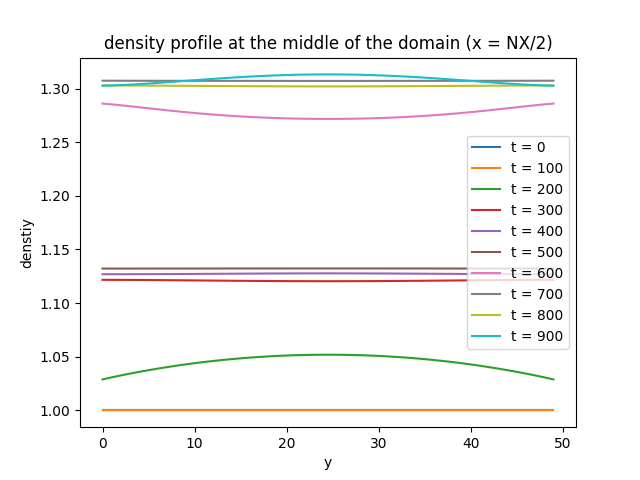
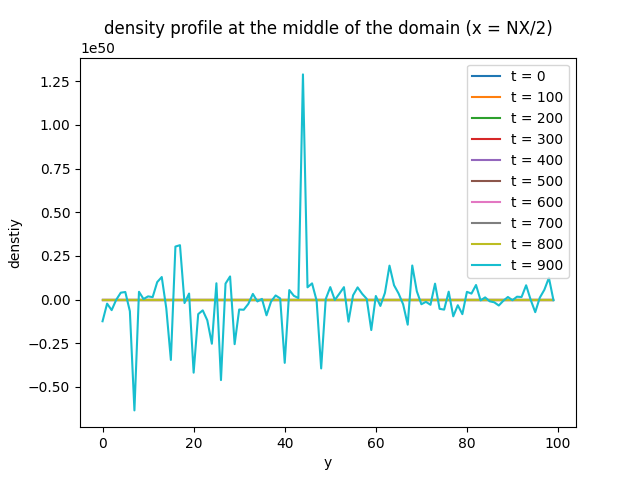
modify poiseuille

diff --git a/hpc_fluid_dynamics/lbm_class.py b/hpc_fluid_dynamics/lbm_class.py
@@ -259,20 +259,24 @@ class LBM:
                     pdf_9xy[oi[1], :, -1] = pdf_9xy[oi[0], :, -1]
 
             # pressure conditions of left and right walls
-            if self.is_boundary["left"]:
-                density_in_x_y = np.ones((self.NX, self.NY))*self.density_in
-                u1_x_y_2 = np.repeat(local_avg_velocity_xy2[1,:,:][None, :], self.NX, axis=0)
-                eq_pdf_u1 = calc_equilibrium_pdf(density_out_x_y, u1_x_y_2)[:, 1, :]  
-                self.fill1 = eq_pdf_uN + (pdf_9xy[:, -2, :] - equilibrium_pdf_9xy[:, -2, :])
-                # pressure conditions of left and right walls
-                pdf_9xy[[1, 5, 8],0,:] = self.fill1[[1, 5, 8]]
+            if self.is_boundary["left"] or self.is_boundary["right"]:
+                    density_in_x_y = np.ones((self.NX, self.NY))*self.density_in
+                    density_out_x_y = np.ones((self.NX, self.NY))*self.density_out
 
-            if self.is_boundary["right"]:
-                density_out_x_y = np.ones((self.NX, self.NY))*self.density_out
-                uN_x_y_2 = np.repeat(local_avg_velocity_xy2[-2,:,:][None, :], self.NX, axis=0)
-                eq_pdf_uN = calc_equilibrium_pdf(density_in_x_y, uN_x_y_2)[:, -2, :]
-                self.fill2 = eq_pdf_u1 + (pdf_9xy[:, 1, :] - equilibrium_pdf_9xy[:, 1, :])
-                pdf_9xy[[1, 5, 8],-1,:] = self.fill2[[1, 5, 8]]
+                    u1_x_y_2 = np.repeat(local_avg_velocity_xy2[1,:,:][None, :], self.NX, axis=0)
+                    uN_x_y_2 = np.repeat(local_avg_velocity_xy2[-2,:,:][None, :], self.NX, axis=0)
+
+                    eq_pdf_u1 = calc_equilibrium_pdf(density_out_x_y, u1_x_y_2)[:, 1, :]
+                    eq_pdf_uN = calc_equilibrium_pdf(density_in_x_y, uN_x_y_2)[:, -2, :]
+                    
+                    self.fill1 = eq_pdf_uN + (pdf_9xy[:, -2, :] - equilibrium_pdf_9xy[:, -2, :]) # x N
+                    self.fill2 = eq_pdf_u1 + (pdf_9xy[:, 1, :] - equilibrium_pdf_9xy[:, 1, :]) # x 1
+
+                    # pressure conditions of left and right walls
+                    if self.is_boundary["left"]:
+                        pdf_9xy[[1, 5, 8],0,:] = self.fill1[[1, 5, 8]]
+                    if self.is_boundary["right"]:
+                        pdf_9xy[[1, 5, 8],-1,:] = self.fill2[[1, 5, 8]]
 
         return pdf_9xy
     
